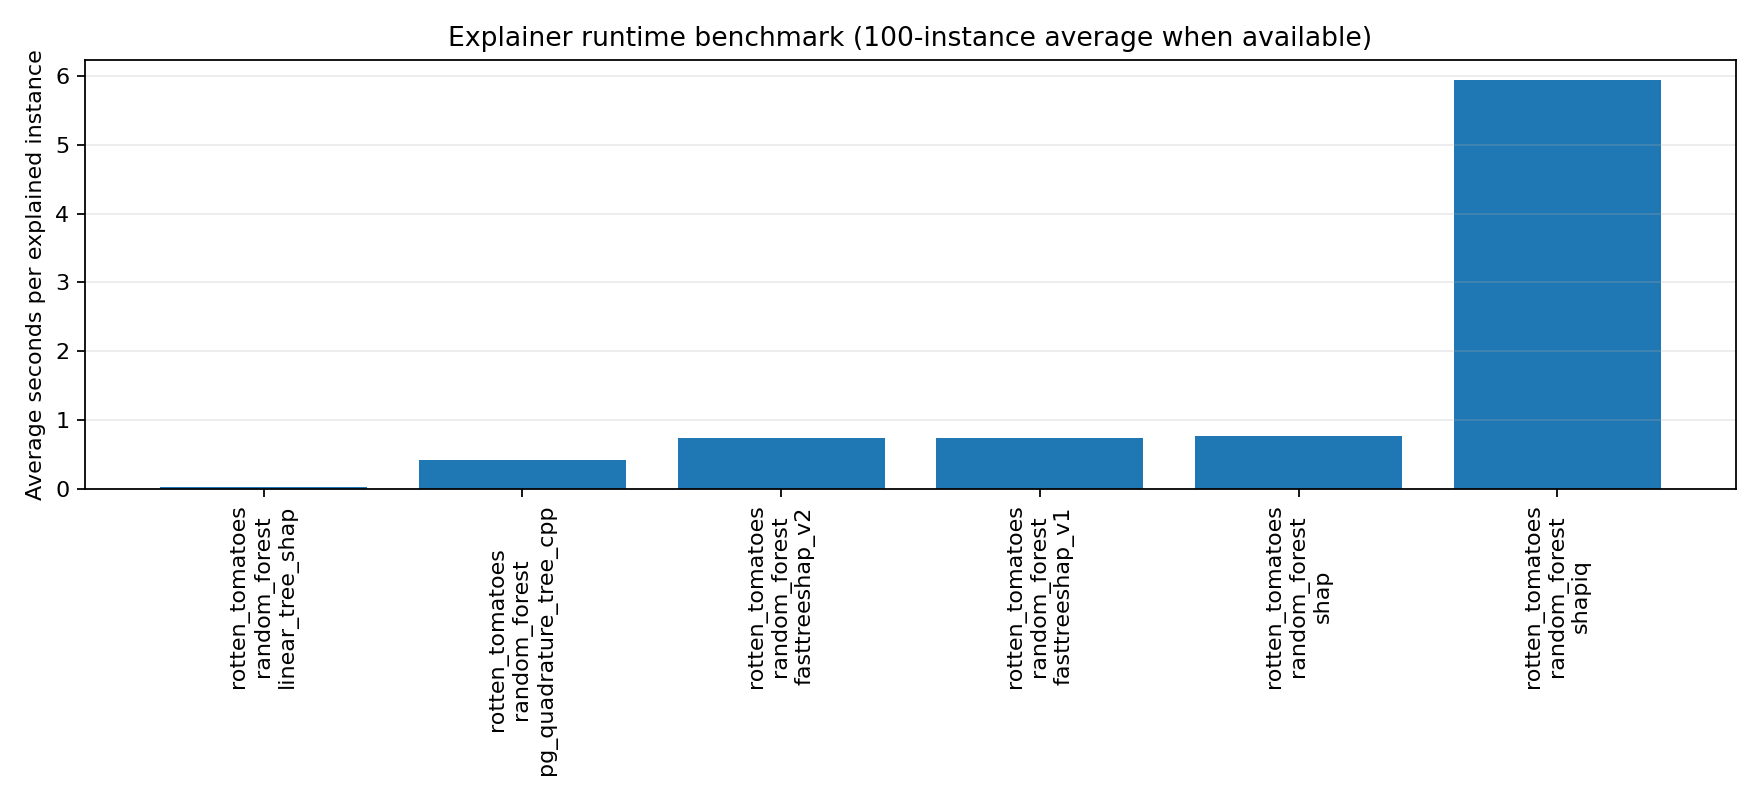
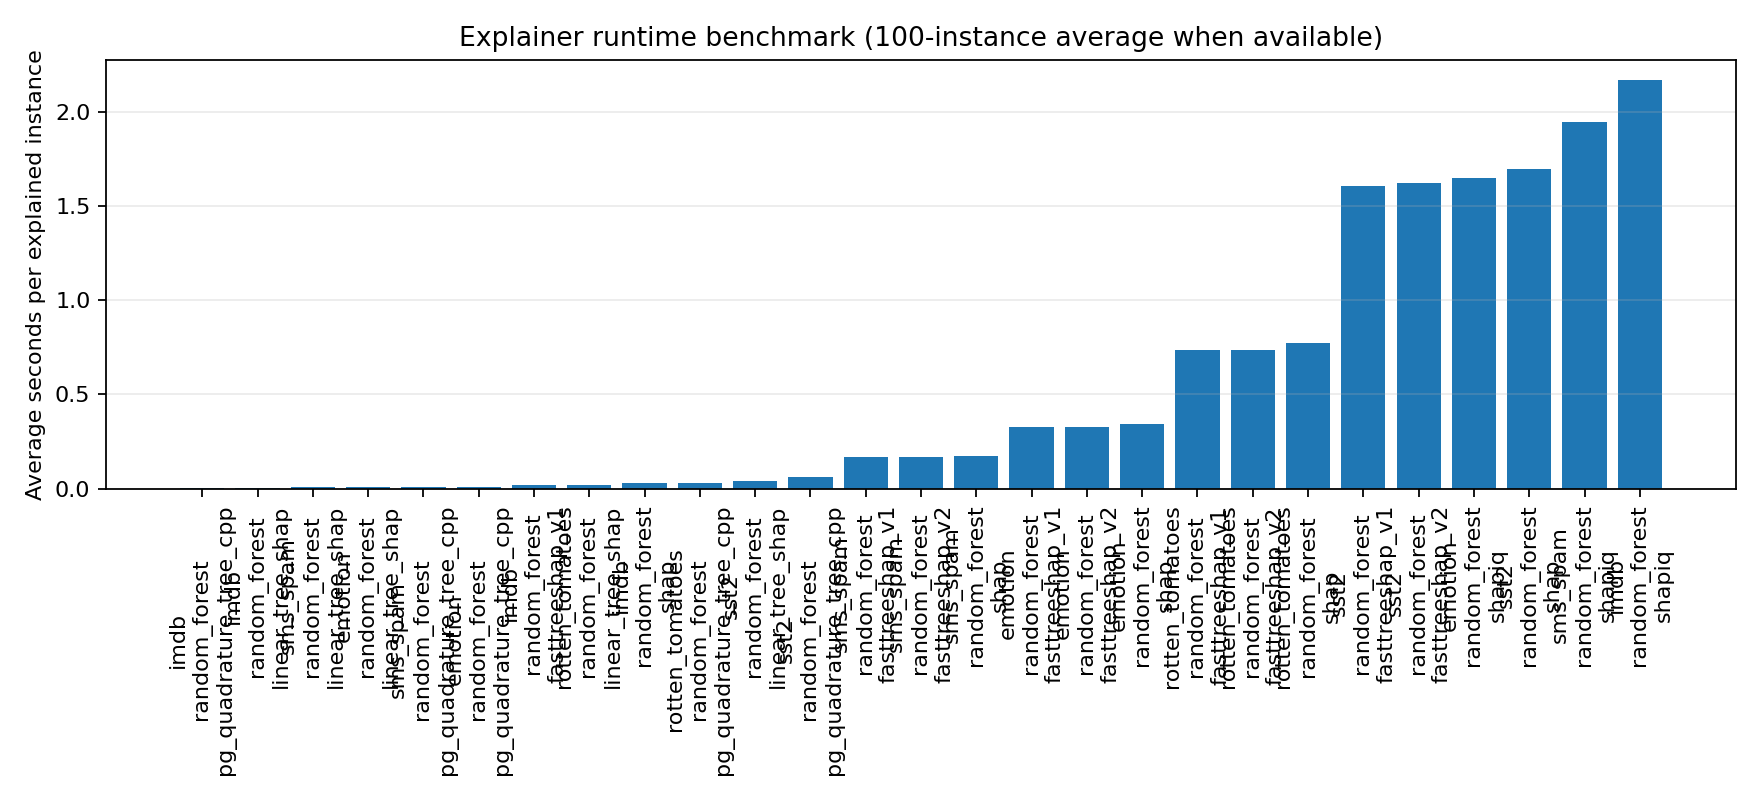
Working on benchmarks

diff --git a/benchmarks/text_classification_experiment.py b/benchmarks/text_classification_experiment.py
@@ -856,6 +856,114 @@ def _ev_per_sample(
     return np.full(n_samples, scalar, dtype=np.float64)
 
 
+def _benchmark_method_in_child(
+    method_name: str,
+    estimator,
+    X_batch: np.ndarray,
+    target_class: int,
+    pred_target: np.ndarray | None,
+    n_repeats: int,
+    conn,
+) -> None:
+    """Run one (build + warmup + timed loop + additivity) cycle inside a
+    forked child. Sends a result dict back through ``conn`` then exits.
+
+    The child is meant to be killable from the parent if it overruns the
+    user-set timeout. Building the explainer is included inside the timed
+    region because for some libraries (e.g. SHAP, shapiq) construction on
+    large forests can itself be the dominant cost.
+    """
+    try:
+        handle = _build_tree_explainer(method_name, estimator, target_class)
+        raw_sv = _raw_explain_tree(method_name, handle, X_batch)  # warmup
+        times: list[float] = []
+        for _ in range(max(1, n_repeats)):
+            t0 = time.perf_counter()
+            raw_sv = _raw_explain_tree(method_name, handle, X_batch)
+            times.append(time.perf_counter() - t0)
+            if times[0] > 1.0:
+                break
+
+        n_samples = X_batch.shape[0]
+        additivity_error = None
+        if pred_target is not None:
+            phi = _phi_per_sample(method_name, raw_sv, target_class)
+            ev_vec = _ev_per_sample(
+                method_name, handle, estimator, target_class, n_samples, raw_sv
+            )
+            additivity_error = float(
+                np.max(np.abs(ev_vec + phi.sum(axis=1) - pred_target))
+            )
+
+        conn.send({
+            "status": "ok",
+            "times": [float(t) for t in times],
+            "additivity_error": additivity_error,
+        })
+    except BaseException as exc:
+        conn.send({
+            "status": "failed",
+            "message": f"{type(exc).__name__}: {exc}"[:300],
+        })
+    finally:
+        try:
+            conn.close()
+        except Exception:
+            pass
+
+
+def _run_explainer_with_timeout(
+    method_name: str,
+    estimator,
+    X_batch: np.ndarray,
+    target_class: int,
+    pred_target: np.ndarray | None,
+    n_repeats: int,
+    timeout_s: float | None,
+) -> dict[str, object]:
+    """Wrap ``_benchmark_method_in_child`` in a fork + join(timeout). On
+    timeout the child is terminated and a ``status="timeout"`` dict is
+    returned. ``timeout_s=None`` runs without a timeout.
+    """
+    import multiprocessing as mp
+    ctx = mp.get_context("fork")
+    parent_conn, child_conn = ctx.Pipe(duplex=False)
+    proc = ctx.Process(
+        target=_benchmark_method_in_child,
+        args=(method_name, estimator, X_batch, target_class, pred_target,
+              n_repeats, child_conn),
+    )
+    proc.start()
+    child_conn.close()
+    proc.join(timeout=timeout_s)
+    if proc.is_alive():
+        proc.terminate()
+        proc.join(timeout=5)
+        if proc.is_alive():
+            proc.kill()
+            proc.join()
+        try: parent_conn.close()
+        except Exception: pass
+        return {"status": "timeout", "message": f"exceeded {timeout_s:.0f}s"}
+
+    payload: dict[str, object] | None = None
+    try:
+        if parent_conn.poll():
+            payload = parent_conn.recv()
+    except EOFError:
+        payload = None
+    finally:
+        try: parent_conn.close()
+        except Exception: pass
+
+    if payload is None:
+        return {
+            "status": "failed",
+            "message": f"child exited code={proc.exitcode} without result",
+        }
+    return payload
+
+
 def benchmark_explainers(
     *,
     dataset_key: str,
@@ -863,12 +971,13 @@ def benchmark_explainers(
     X_eval,
     explain_samples: int,
     positive_label: int | None,
+    timeout_s: float | None,
 ) -> list[dict[str, object]]:
     estimator = bundle["estimator"]
     feature_names = bundle["feature_names"]
     X_eval_dense = dense_rows(X_eval)
     n_samples = min(explain_samples, len(X_eval_dense))
-    log(f"  benchmark_explainers: dataset={dataset_key} model={bundle['model_kind']} n_samples={n_samples}")
+    log(f"  benchmark_explainers: dataset={dataset_key} model={bundle['model_kind']} n_samples={n_samples} timeout={timeout_s}")
     rows: list[dict[str, object]] = []
 
     if bundle["model_kind"] in {"decision_tree", "random_forest", "extra_trees"}:
@@ -881,67 +990,72 @@ def benchmark_explainers(
             pred_target = None
 
         for method_name in TREE_EXPLAINER_METHOD_NAMES:
-            log(f"    timing {method_name} on {n_samples} instances")
-            try:
-                handle = _build_tree_explainer(method_name, estimator, target_class)
-                # Untimed warmup (JIT, caches, any first-call work).
-                raw_sv = _raw_explain_tree(method_name, handle, X_batch)
-                times: list[float] = []
-                for _ in range(max(1, TREE_EXPLAINER_REPEATS)):
-                    t0 = time.perf_counter()
-                    raw_sv = _raw_explain_tree(method_name, handle, X_batch)
-                    times.append(time.perf_counter() - t0)
-                    if times[0] > 1.0:
-                        break
-                total_time = float(np.median(times))
+            log(f"    timing {method_name} on {n_samples} instances "
+                f"(timeout={timeout_s}s)")
+            wall_t0 = time.perf_counter()
+            result = _run_explainer_with_timeout(
+                method_name, estimator, X_batch, target_class, pred_target,
+                TREE_EXPLAINER_REPEATS, timeout_s,
+            )
+            wall_s = time.perf_counter() - wall_t0
+            status = str(result.get("status"))
 
-                additivity_error: float | None = None
-                if pred_target is not None:
-                    phi = _phi_per_sample(method_name, raw_sv, target_class)
-                    ev_vec = _ev_per_sample(
-                        method_name, handle, estimator, target_class, n_samples, raw_sv
-                    )
-                    additivity_error = float(
-                        np.max(np.abs(ev_vec + phi.sum(axis=1) - pred_target))
-                    )
-
-                err_str = "n/a" if additivity_error is None else f"{additivity_error:.2e}"
+            if status == "ok":
+                times = list(result.get("times") or [])
+                total_time = float(np.median(times)) if times else float("nan")
+                additivity_error = result.get("additivity_error")
+                err_str = "n/a" if additivity_error is None else f"{float(additivity_error):.2e}"
                 log(
                     f"      {method_name}: total={total_time:.4f}s "
                     f"avg={total_time / max(1, n_samples):.4f}s/inst "
-                    f"err={err_str} (n_repeats={len(times)})"
+                    f"err={err_str} (n_repeats={len(times)}, wall={wall_s:.2f}s)"
                 )
-                rows.append(
-                    {
-                        "dataset": dataset_key,
-                        "model_kind": bundle["model_kind"],
-                        "explainer": method_name,
-                        "n_samples": n_samples,
-                        "avg_seconds_per_instance": total_time / max(1, n_samples),
-                        "total_seconds": total_time,
-                        "n_repeats": len(times),
-                        "additivity_error": additivity_error,
-                        "status": "ok",
-                        "message": None,
-                    }
-                )
-            except BaseException as exc:
-                msg = f"{type(exc).__name__}: {exc}"
+                rows.append({
+                    "dataset": dataset_key,
+                    "model_kind": bundle["model_kind"],
+                    "explainer": method_name,
+                    "n_samples": n_samples,
+                    "avg_seconds_per_instance": total_time / max(1, n_samples),
+                    "total_seconds": total_time,
+                    "n_repeats": len(times),
+                    "additivity_error": (None if additivity_error is None
+                                         else float(additivity_error)),
+                    "status": "ok",
+                    "message": None,
+                    "wall_seconds": wall_s,
+                })
+            elif status == "timeout":
+                log(f"      {method_name}: TIMEOUT after {wall_s:.1f}s "
+                    f"(limit {timeout_s}s)")
+                rows.append({
+                    "dataset": dataset_key,
+                    "model_kind": bundle["model_kind"],
+                    "explainer": method_name,
+                    "n_samples": n_samples,
+                    "avg_seconds_per_instance": None,
+                    "total_seconds": None,
+                    "n_repeats": 0,
+                    "additivity_error": None,
+                    "status": "timeout",
+                    "message": str(result.get("message", "")),
+                    "wall_seconds": wall_s,
+                })
+            else:
+                msg = str(result.get("message", "unknown error"))
                 log(f"      {method_name}: failed: {msg}")
-                rows.append(
-                    {
-                        "dataset": dataset_key,
-                        "model_kind": bundle["model_kind"],
-                        "explainer": method_name,
-                        "n_samples": n_samples,
-                        "avg_seconds_per_instance": None,
-                        "total_seconds": None,
-                        "n_repeats": 0,
-                        "additivity_error": None,
-                        "status": "failed",
-                        "message": msg[:300],
-                    }
-                )
+                rows.append({
+                    "dataset": dataset_key,
+                    "model_kind": bundle["model_kind"],
+                    "explainer": method_name,
+                    "n_samples": n_samples,
+                    "avg_seconds_per_instance": None,
+                    "total_seconds": None,
+                    "n_repeats": 0,
+                    "additivity_error": None,
+                    "status": "failed",
+                    "message": msg[:300],
+                    "wall_seconds": wall_s,
+                })
         return rows
 
     if bundle["model_kind"] in {"svc_rbf", "krr_rbf"}:
@@ -1274,7 +1388,8 @@ def run_text_benchmark(args: argparse.Namespace) -> None:
         f"kernel_train={args.kernel_train_limit} kernel_valid={args.kernel_valid_limit} "
         f"explain_samples={args.explain_samples} perturbation_samples={args.perturbation_samples} "
         f"removal_sizes={args.removal_sizes} families={args.families} "
-        f"max_tree_depth={args.max_tree_depth} force_retrain={args.force_retrain} seed={args.seed}")
+        f"max_tree_depth={args.max_tree_depth} explainer_timeout={args.explainer_timeout} "
+        f"force_retrain={args.force_retrain} seed={args.seed}")
     metrics_rows: list[dict[str, object]] = []
     timing_rows: list[dict[str, object]] = []
     perturb_rows: list[dict[str, object]] = []
@@ -1419,6 +1534,7 @@ def run_text_benchmark(args: argparse.Namespace) -> None:
                     X_eval=X_test_eval,
                     explain_samples=args.explain_samples,
                     positive_label=spec.positive_label,
+                    timeout_s=args.explainer_timeout,
                 )
             )
 
@@ -1497,6 +1613,16 @@ def parse_args(argv: list[str] | None = None) -> argparse.Namespace:
         "param grid. ``None`` entries in the grid are replaced with this "
         "value; explicit integers are clamped down to it.",
     )
+    run_parser.add_argument(
+        "--explainer-timeout",
+        type=float,
+        default=300.0,
+        help="Wall-clock seconds allowed per (method, dataset) explainer "
+        "run. The build + warmup + timed loop + additivity check all run "
+        "inside one forked child; if it exceeds this budget the child is "
+        "terminated and the row is recorded with status='timeout'. Pass "
+        "0 or a negative number to disable the timeout entirely.",
+    )
     run_parser.add_argument("--force-retrain", action="store_true")
     run_parser.add_argument("--seed", type=int, default=42)
 
@@ -1505,7 +1631,11 @@ def parse_args(argv: list[str] | None = None) -> argparse.Namespace:
     if argv is None and len(sys.argv) == 1:
         argv = DEBUG_DEFAULT_ARGS
 
-    return parser.parse_args(argv)
+    parsed = parser.parse_args(argv)
+    if hasattr(parsed, "explainer_timeout") and parsed.explainer_timeout is not None:
+        if parsed.explainer_timeout <= 0:
+            parsed.explainer_timeout = None
+    return parsed
 
 
 def main() -> None:

diff --git a/src/quadrashap/treeshap/quadrature_tree.py b/src/quadrashap/treeshap/quadrature_tree.py
@@ -86,6 +86,18 @@ class QuadratureTreeShapBackend(TreeShapBackend):
         super().__init__()
         self._m_q_user = m_q
         self._use_cpp = bool(use_cpp)
+        if self._use_cpp and not HAS_CPP_EXT:
+            import warnings
+            warnings.warn(
+                "quadrashap: use_cpp=True requested but the C++ extension "
+                "(_core) failed to load; falling back to the ~50-100x slower "
+                "NumPy/Python DFS path. Reinstall with a C++ toolchain and "
+                "pybind11 available (e.g. `uv pip install pybind11>=2.12 && "
+                "uv pip install --no-build-isolation --reinstall --no-deps "
+                "-e .`) to enable the fast kernel.",
+                RuntimeWarning,
+                stacklevel=2,
+            )
 
     def _m_q_for_tree(self, D: int) -> int:
         if self._m_q_user is not None: